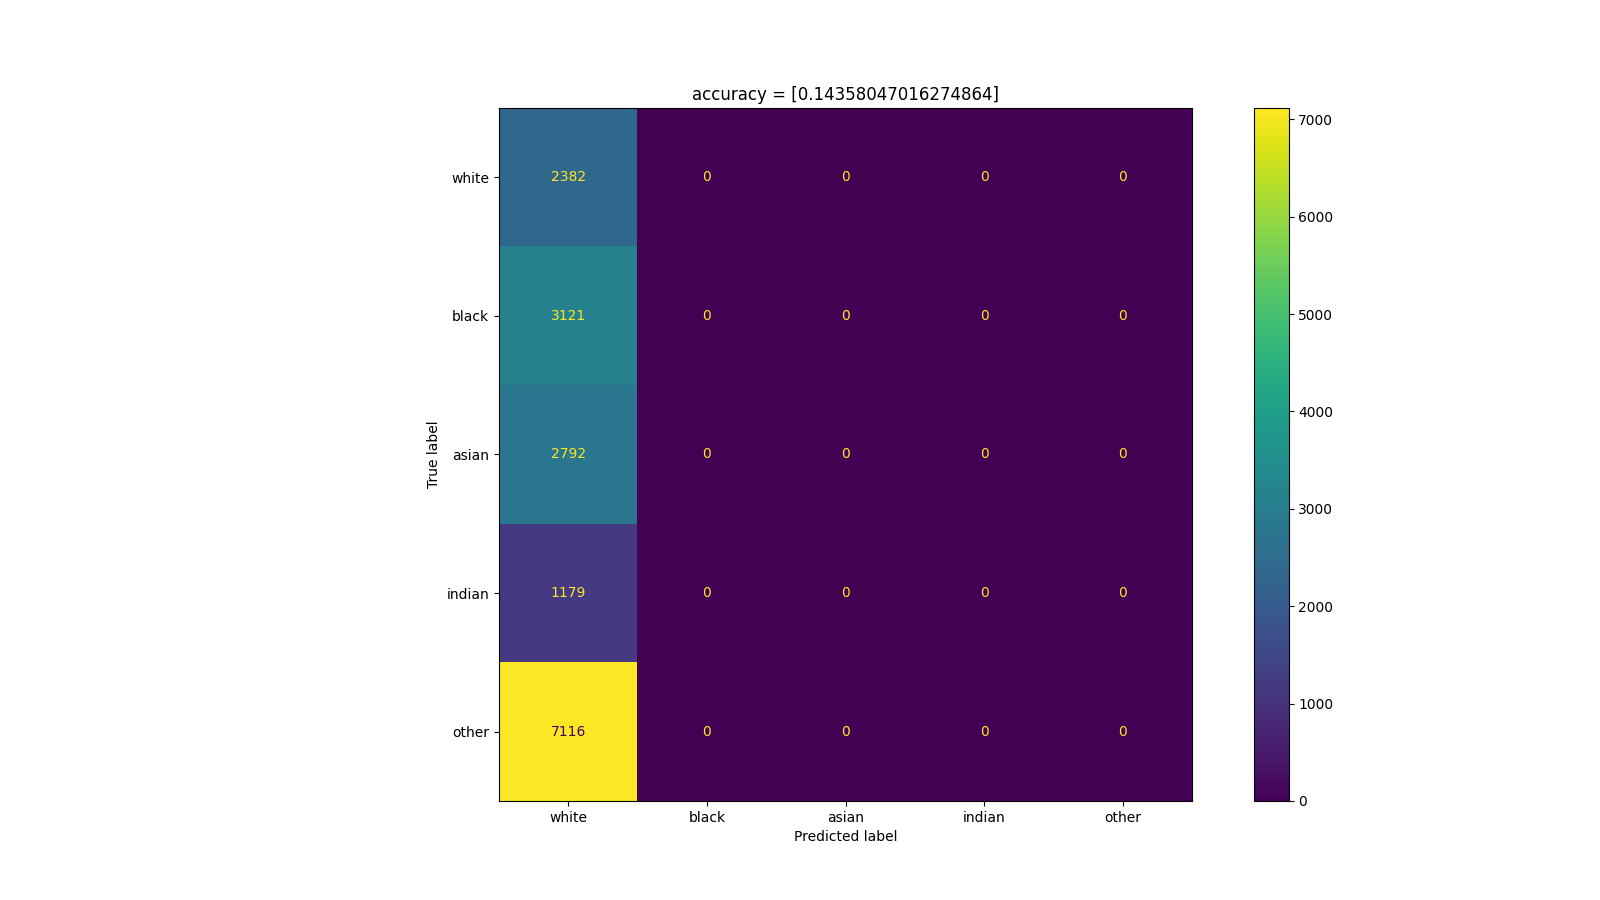
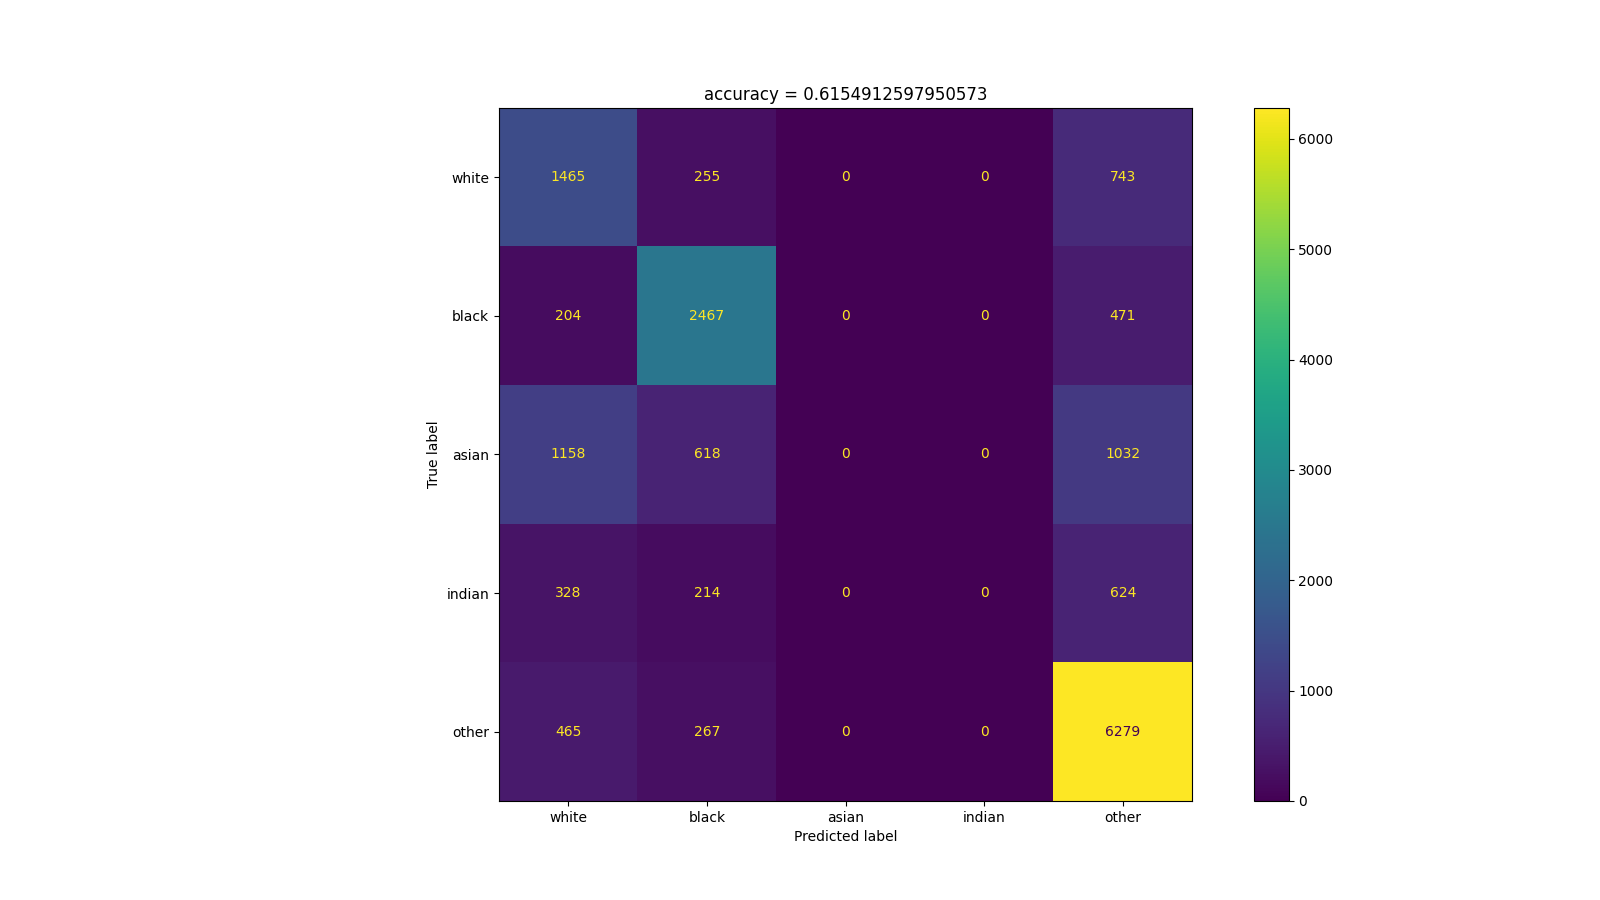
rerean the model with Adam and I got slightly better results but nothing great

diff --git a/runFR_race.py b/runFR_race.py
@@ -73,9 +73,9 @@ def finish_the_job():
 
   tune_data, val_data = random_split(tune_val_data, [7112, 16595])
 
-  saved = torch.load('chkpt/race_train.tar')
+  saved = torch.load('chkpt/race_train.tar70')
   trained_model = model = ResNetSimCLR(
-    in_channels=3, n_classes=4, mlp_layers=2, blocks_layers=[3,3,3,3]
+    in_channels=3, n_classes=5, mlp_layers=2, blocks_layers=[3,4,6,3]
   )
   trained_model.load_state_dict(saved['model_state_dict'])
 
@@ -99,13 +99,13 @@ def finish_the_job():
 
 if __name__ == "__main__":
 
-  model, train_loss, tune_loss, accuracy, actual, predicted = train_race_fr()
-  # model, tune_losses, acc, actual, predicted = finish_the_job()
+  # model, train_loss, tune_loss, accuracy, actual, predicted = train_race_fr()
+  model, tune_loss, accuracy, actual, predicted = finish_the_job()
 
   # pickle everything 
-  with open('chkpt/race_fr.pickle', 'wb') as out_file:
+  with open('chkpt/race_fr_again.pickle', 'wb') as out_file:
     pickle.dump(
-      (train_loss, tune_loss, accuracy, actual, predicted),
+      (tune_loss, accuracy, actual, predicted),
       out_file
     )
   
@@ -113,10 +113,10 @@ if __name__ == "__main__":
     {'model_state_dict': model.state_dict()}, 'chkpt/final_race_model.tar'
   )
 
-  plt.plot(train_loss)
-  plt.title('train loss')
-  plt.savefig('vis/race_fr_train_losses.png')
-  plt.clf()
+  # plt.plot(train_loss)
+  # plt.title('train loss')
+  # plt.savefig('vis/race_fr_train_losses.png')
+  # plt.clf()
 
   plt.plot(tune_loss)
   plt.title('tune losses')

diff --git a/SimCLR/Makers.py b/SimCLR/Makers.py
@@ -121,8 +121,8 @@ class FineTune(BaseModel):
     # trainers
     criterion = nn.CrossEntropyLoss().to(self.device)
     
-    optimizer = torch.optim.SGD(
-      self.model.parameters(), lr=.001, momentum=.9
+    optimizer = torch.optim.Adam(
+      self.model.parameters(), lr=.0001
     )
     scheduler = torch.optim.lr_scheduler.CosineAnnealingLR(
       optimizer, T_max=len(dataloader), eta_min=0, last_epoch=-1
